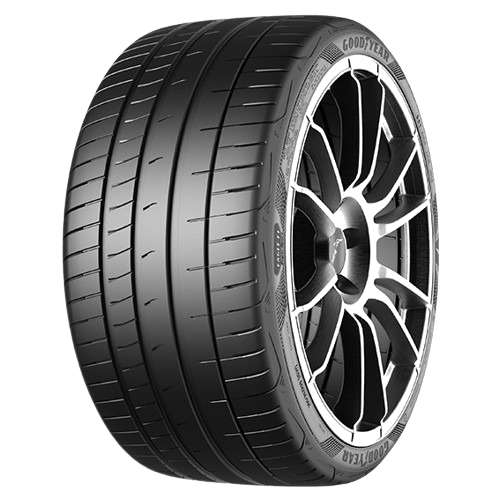
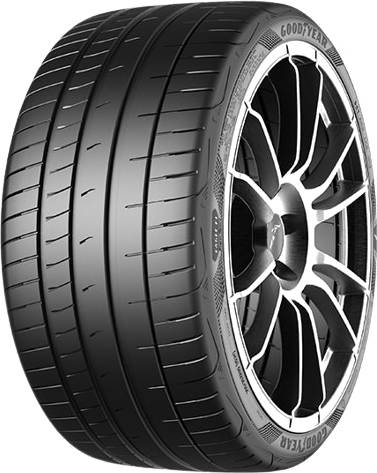
Crop transparent padding from Goodyear tires to match Yokohama size

diff --git a/crop_goodyear.py b/crop_goodyear.py
@@ -1,0 +1,25 @@
+import os
+from PIL import Image
+
+tires_dir = r"C:\jrashid\public\images\tires"
+goodyear_images = [
+    "goodyear-1.png",
+    "goodyear-2.png",
+    "goodyear-3.png"
+]
+
+for img_name in goodyear_images:
+    path = os.path.join(tires_dir, img_name)
+    if os.path.exists(path):
+        img = Image.open(path)
+        # getbbox returns the bounding box of the non-zero regions in the image
+        bbox = img.getbbox()
+        if bbox:
+            # Crop the image to the bounding box
+            cropped_img = img.crop(bbox)
+            cropped_img.save(path)
+            print(f"Cropped and saved {img_name}")
+        else:
+            print(f"Could not find bounding box for {img_name}")
+    else:
+        print(f"File not found: {path}")
